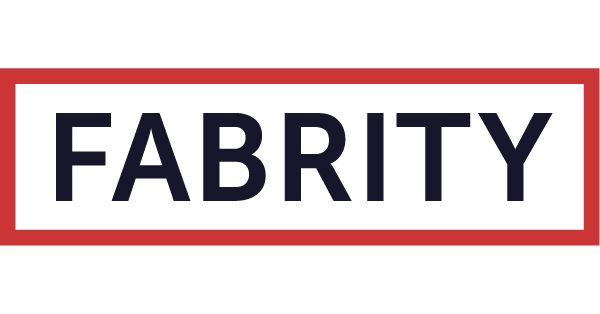
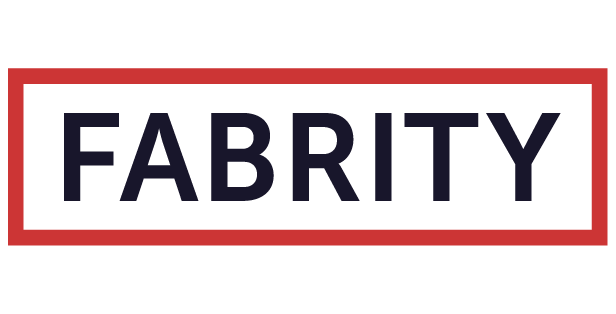
Skalowanie

diff --git a/src/components/Footer.vue b/src/components/Footer.vue
@@ -1,28 +1,32 @@
 <template>
-  <div style="background: rgba(10, 72, 130, 0.2)">
+  <div style="background: rgba(10, 72, 130, 0.2); padding-bottom: 30px">
     <b-row
       no-gutters
       align-h="center"
-      class="p-5 lead text-center"
+      class="p-5 lead text-center mt-4"
       align-v="center"
     >
-      <b-img
-        fluid
-        style="height: 40px; border-right: 1px solid black"
-        :src="require('../assets/logo_black.svg')"
-        class="pr-3 mr-1"
-      ></b-img>
-      <a
-        v-for="(icon, i) in icons"
-        :key="i"
-        :href="icon.link"
-        style="text-decoration: none"
-      >
-        <v-icon color="black" class="mx-2 social">{{ icon.name }}</v-icon>
-        <v-tooltip top :target="i" triggers="hover"> {{icon.description }}</v-tooltip>
-      </a>
+      <div class="mt-8">
+        <b-img
+          fluid
+          style="height: 40px; border-right: 1px solid black"
+          :src="require('../assets/logo_black.svg')"
+          class="pr-4 mr-1"
+        ></b-img>
+        <a
+          v-for="(icon, i) in icons"
+          :key="i"
+          :href="icon.link"
+          style="text-decoration: none"
+        >
+          <v-icon large color="black" class="mx-2 social">{{ icon.name }}</v-icon>
+          <v-tooltip top :target="i" triggers="hover">
+            {{ icon.description }}</v-tooltip
+          >
+        </a>
+      </div>
 
-      <span class="ml-3" style="border-left: solid 1px black"
+      <span class="ml-3 mt-8" style="border-left: solid 1px black"
         >Kontakt <br /><i class="h6 pl-4"> sknikodprz@gmail.com</i></span
       >
     </b-row>
@@ -34,14 +38,26 @@ export default {
   data() {
     return {
       icons: [
-        { name: "mdi-web", link: "https://kod.prz.edu.pl/#/", description: "SKNI KOD" },
-        { name: "mdi-facebook", link: "https://www.facebook.com/skni.kod", description: "Facebook" },
+        {
+          name: "mdi-web",
+          link: "https://kod.prz.edu.pl/#/",
+          description: "SKNI KOD",
+        },
+        {
+          name: "mdi-facebook",
+          link: "https://www.facebook.com/skni.kod",
+          description: "Facebook",
+        },
         {
           name: "mdi-linkedin",
           link: "https://www.linkedin.com/company/skni-kod",
-          description: "Linkedin"
+          description: "Linkedin",
         },
-        { name: "mdi-instagram", link: "https://www.instagram.com/skni.kod/", description: "Instagram" },
+        {
+          name: "mdi-instagram",
+          link: "https://www.instagram.com/skni.kod/",
+          description: "Instagram",
+        },
       ],
     };
   },
@@ -56,6 +72,6 @@ export default {
 .social:hover {
   color: rgb(10, 72, 130) !important;
 
-  transform: scale(1.5);
+  transform: scale(1.4);
 }
 </style>

diff --git a/src/components/Partners.vue b/src/components/Partners.vue
@@ -7,6 +7,7 @@
       height="auto"
       hide-delimiters
       show-arrows-on-hover
+      style="max-width: 1750px; margin: auto"
     >
       <div v-if="$vuetify.breakpoint.mdAndUp">
         <v-carousel-item
@@ -27,9 +28,9 @@
               <v-img
                 :src="items[i * 4 + j - 5].src"
                 :alt="items[i * 4 + j - 5].alt"
-                class="mx-auto"
                 @click.native="open(items[i * 4 + j - 5].link)"
-                style="cursor: pointer; max-width: 220px"
+                class="mx-auto"
+                style="cursor: pointer; max-width: 350px"
               />
             </v-col>
           </v-row>
@@ -40,7 +41,7 @@
           v-for="(item, index) in items"
           :key="index"
           @click.native="open(item.link)"
-          style="cursor: pointer"
+          style="cursor: pointer; max-width: 500px; margin:auto;"
         >
           <v-row align="center" justify="center" class="px-4 fill-height">
             <v-col cols="auto">
@@ -77,6 +78,12 @@ export default {
           alt: "FABRITY",
           text: "FABRITY",
           link: "https://fabrity.com/",
+        },
+        {
+          src: require("@/assets/sponsorzy/ideo.png"),
+          alt: "IDEO",
+          text: "IDEO",
+          link: "https://www.ideo.pl/",
         },
       ],
     };

diff --git a/src/components/Team.vue b/src/components/Team.vue
@@ -10,14 +10,19 @@
     </v-card>
 
     <v-row class="mx-2">
-      <v-col v-for="(mentor, i) in mentors" :key="i">
-        <v-card class="col-12 outline rounded-lg" color="info">
+      <v-col
+        class="mx-auto"
+        v-for="(mentor, i) in mentors"
+        :key="i"
+        style="max-width: 900px"
+      >
+        <v-card class="info col-12 outline rounded-lg mx-2">
           <div data-aos="zoom-in">
             <div class="d-flex justify-center mb-3">
               <img
                 :src="mentor.jpg"
                 class="img-fluid"
-                style="width: 20vw; min-width: 180px; height: auto;"
+                style="width: 18vw; min-width: 140px; max-width: 280px; height: auto;"
               />
             </div>
             <div>

diff --git a/src/components/Application.vue b/src/components/Application.vue
@@ -6,7 +6,7 @@
     <div class="mx-10">
       <div
         class="accent rounded-pill p-5"
-        style="max-width: 1300px; margin:auto"
+        style="max-width: 1500px; margin:auto"
       >
         <v-row no-gutters class=" text-center" justify="center">
           <div

diff --git a/src/components/Navbar.vue b/src/components/Navbar.vue
@@ -4,7 +4,7 @@
     dark
     color="primary"
     id="nav"
-    style="position: sticky; top:0; left: 0; z-index: 1"
+    style="position: sticky; top:0; left: 0; z-index: 1;"
   >
     <v-row align="center">
       <v-toolbar-title class="ml-4 d-none d-md-flex">
